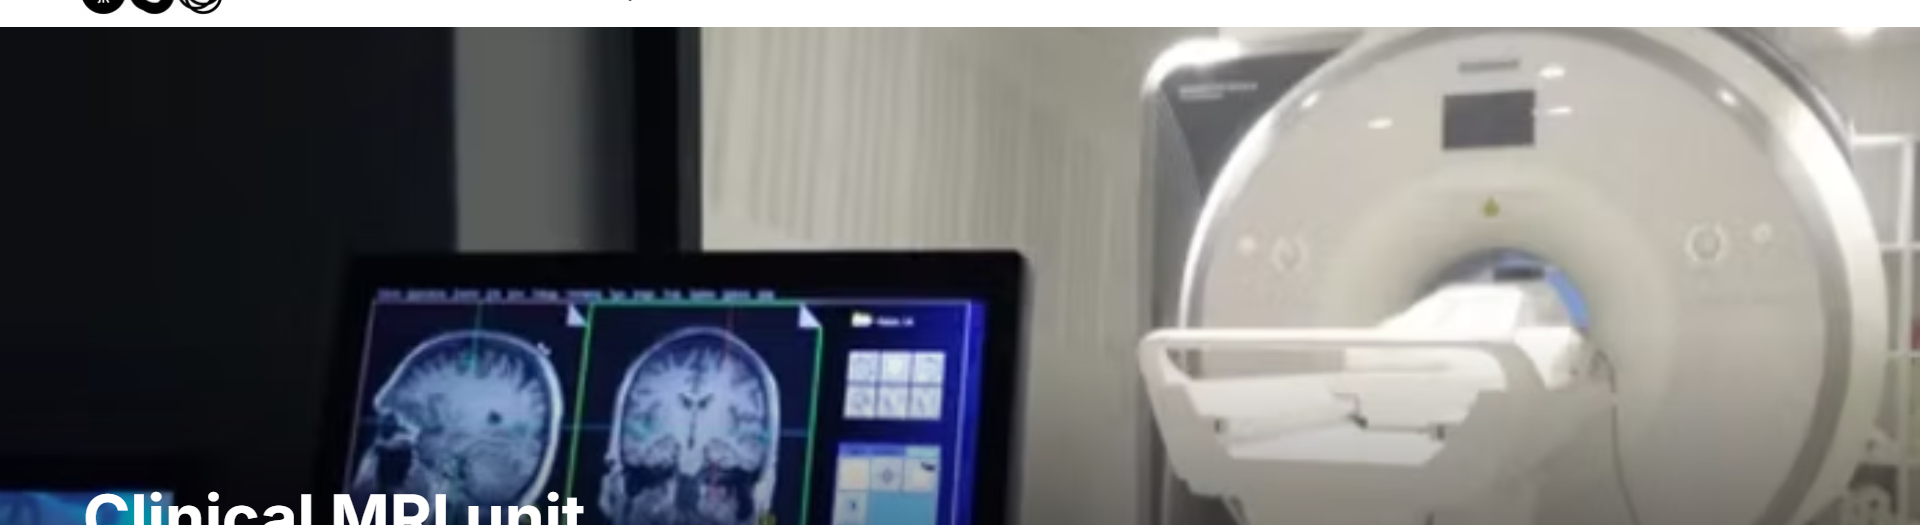
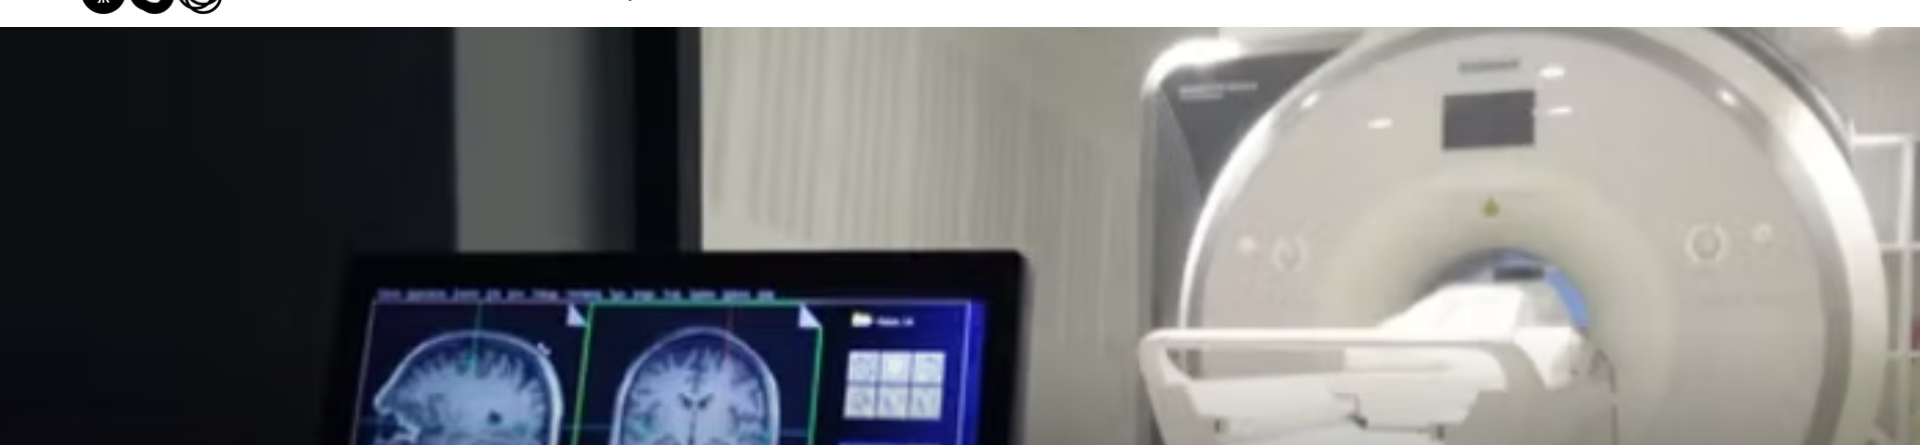
Fix cropped text in clinical-unit / bookitlab images (#62)
Both source screenshots had their page-title text ("Clinical MRI
unit" / "BookitLab") cut off at the very last pixel row -- confirmed
by inspecting the raw bottom rows of both PNGs, the text was
genuinely truncated in the source files, not clipped by CSS (no
wrapping container had overflow:hidden, and .h-system has no
object-fit that would crop content).

Cropped both images to remove the truncated text band (525px ->
445px, removing the bottom 80px where the label was cut), since a
half-visible word reads as more broken than no text -- the images
already carry full context via their data-cap captions. This
changed the aspect ratio, so recomputed .h-system's height
(115px -> 98px) to keep the pair fitting side-by-side within the
896px content column; verified via computed getBoundingClientRect()
that both images still render at matched height, same row, no
horizontal overflow.

diff --git a/mri-center.html b/mri-center.html
@@ -363,7 +363,7 @@ article section[id]{scroll-margin-top:8.5rem}
 @media(max-width:900px){.h-homepage{height:auto;width:100%;max-width:320px}}
 .h-erp{height:125px;width:auto;max-width:100%}
 @media(max-width:900px){.h-erp{height:auto;width:100%;max-width:320px}}
-.h-system{height:115px;width:auto;max-width:100%}
+.h-system{height:98px;width:auto;max-width:100%}
 @media(max-width:900px){.h-system{height:auto;width:100%;max-width:320px}}
 .h-courses{height:230px;width:auto;max-width:100%}
 @media(max-width:900px){.h-courses{height:auto;width:100%;max-width:320px}}
